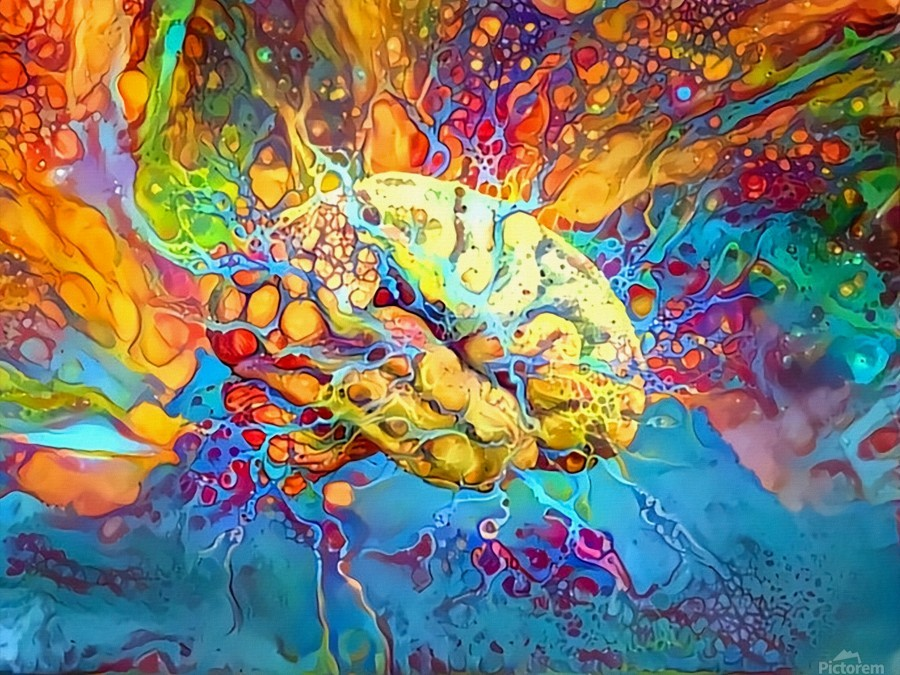
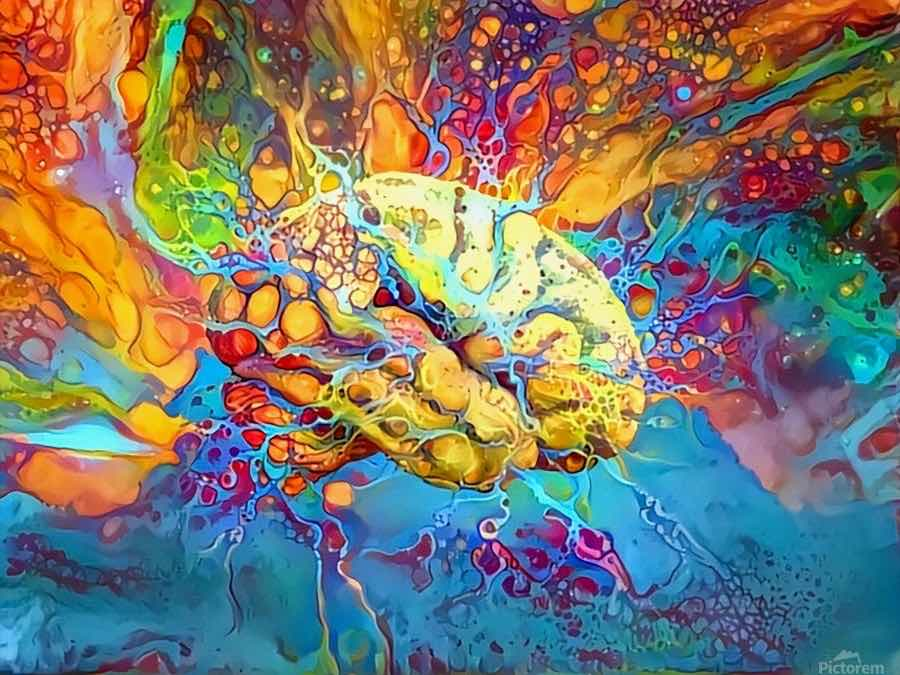
scroll event

diff --git a/index.html b/index.html
@@ -6,22 +6,15 @@
     <meta name="author" content="Ahmad el Dorra">
     <meta name="description" content="Ahmad el Dorra's Portfolio Website">
     <title>Ahmad Dorra</title>
-    
-    
     <link rel="apple-touch-icon" sizes="180x180" href="apple-touch-icon.png">
     <link rel="icon" type="image/png" sizes="32x32" href="favicon-32x32.png">
     <link rel="icon" type="image/png" sizes="16x16" href="favicon-16x16.png">
     <link rel="manifest" href="site.webmanifest">
-<!--    <link rel="mask-icon" href="safari-pinned-tab.svg" color="#f39b07">-->
     <meta name="msapplication-TileColor" content="#da532c">
     <meta name="theme-color" content="#ffffff">
-         
     <link href="https://cdn.jsdelivr.net/npm/bootstrap@5.0.0-beta1/dist/css/bootstrap.min.css" rel="stylesheet" integrity="sha384-giJF6kkoqNQ00vy+HMDP7azOuL0xtbfIcaT9wjKHr8RbDVddVHyTfAAsrekwKmP1" crossorigin="anonymous">
     <style>
       html,body{overflow-x:hidden!important;}
-      body{
-          background: white !important;
-      }
       .loading{
         top:0;left:0;
         background:#fff;
@@ -35,7 +28,7 @@
       }
       .loading .dot::before{position:absolute;content:"";width:100%;height:100%;background:inherit;border-radius:inherit;animation:wave 2s ease-out infinite}
       @keyframes wave{50%,75%{transform:scale(2.5)}80%,100%{opacity:0}}
-      #hello-world-section{background:url(images/pexel-min.png) no-repeat fixed center center;background-size:cover;margin-bottom:30px}
+      #hello-world-section{background:url(images/pexel-min.jpg) no-repeat fixed center center;background-size:cover;margin-bottom:30px}
       #hello-world-section .svg-container{border:10px solid transparent;}
       #hello-world-section svg{width:100%;height:100%;overflow-y:visible;overflow-x:hidden}
       #hello-world-section svg mask rect{fill:#fff!important}
@@ -51,7 +44,7 @@
           font-family:Phosphate,Beirut,Farisi,Chalkduster;
       }
       .scroll-content{display:flex;flex-direction:row;width:200%!important;overflow-x:hidden}
-      .first{background:url(images/welcome-min.png) no-repeat center;background-size:contain;width:100%}
+      .first{background:url(images/welcome-min.jpg) no-repeat center;background-size:contain;width:100%}
       .laravel{display:block;margin-left:auto;margin-right:auto;width:50%}
       #introduction{width:100%;margin:0 auto}
       .manifesto-headline{
@@ -67,7 +60,7 @@
       .typography-hero-subhead{padding:0 15%;text-align:start;font-size:42px;line-height:1.08349;font-weight:400;letter-spacing:-.003em;font-family:"Helvetica","Arial",sans-serif}
       h1+*,h2+*,h3+*,h4+*,h5+*,h6+*{margin-top:.8em}
       .parallax{
-        background-image:url(images/a2-min.png),url(images/pexel-min.png);
+        background-image:url(images/a2-min.jpg),url(images/pexel-min.jpg);
         height:450px;
         background-attachment:fixed,scroll;
         background-position:center,40%;
@@ -78,7 +71,7 @@
       #beirut{width:1440px;height:1440px}
       .motivation-section{padding:0 10px}
       .motivation-div{top:70px;left:51%;position:absolute;transform:translate(-50%,0%)}
-      .motivation-ques{top:60px;background:url(images/bg-min.png);-webkit-background-clip:text;color:transparent;font-family:"Helvetica","Arial",sans-serif;font-size:80px;font-weight:900;animation:dynamic 7s infinite alternate linear;white-space:nowrap}
+      .motivation-ques{top:60px;background:url(images/bg-min.jpg);-webkit-background-clip:text;color:transparent;font-family:"Helvetica","Arial",sans-serif;font-size:80px;font-weight:900;animation:dynamic 7s infinite alternate linear;white-space:nowrap}
       .motivation-text{margin-top:135px;text-align:justify;font-size:25px;font-weight:500;letter-spacing:.011em;font-family:"Helvetica","Helvetica","Arial",sans-serif}
       @media only screen and (max-width:1366px){
         .motivation-div{top:64px}
@@ -265,16 +258,7 @@
         width: 100%;
         height: 100%;
       }
-      /*.wrap-effect-1 .item:first-of-type{background-image:url(images/swiper/1-min.png)}
-      .wrap-effect-1 .item:nth-of-type(2){background-image:url(images/swiper/2-min.png)}
-      .wrap-effect-1 .item:nth-of-type(3){background-image:url(images/swiper/3-min.png)}
-      .wrap-effect-1 .item:last-of-type{background-image:url(images/swiper/4-min.png)}
-      .wrap-effect-2 .item:first-of-type{background-image:url(images/swiper/5-min.png)}
-      .wrap-effect-2 .item:nth-of-type(2){background-image:url(images/swiper/6-min.png)}
-      .wrap-effect-2 .item:last-of-type{background-image:url(images/swiper/7-min.png)}
-      .wrap-effect-3 .item:first-of-type{background-image:url(images/swiper/8-min.png)}
-      .wrap-effect-3 .item:nth-of-type(2){background-image:url(images/swiper/9-min.png)}
-      .wrap-effect-3 .item:last-of-type{background-image:url(images/swiper/10-min.png)}*/
+      
     @media (max-width: 700px){
         .skills-section{max-height: 300px}
 
@@ -325,7 +309,7 @@
       @keyframes blinking{0%{fill:#800}25%{fill:#800}50%{fill:#fff}75%{fill:#800}100%{fill:#800}}
       
       @supports (-webkit-touch-callout: none) {
-          #hello-world-section{background:url(images/pexel-min.png) no-repeat scroll center center;background-size: cover;}
+          #hello-world-section{background:url(images/pexel-min.jpg) no-repeat scroll center center;background-size: cover;}
           .parallax{
             
             background-attachment: scroll,scroll;
@@ -410,7 +394,7 @@
               </p>
             </div>
             <div class="col-md-6 col-12">
-              <img width="329" height="318" loading="lazy" src="images/computer-min.png" alt=""/>
+              <img width="329" height="318" loading="lazy" src="images/computer-min.jpg" alt=""/>
             </div>
             <div class="col-12 d-block d-md-none">
               <h3>Web Apps</h3>
@@ -421,7 +405,7 @@
             
               
             <div class="col-md-6 col-12">
-              <img width="427" height="502" loading="lazy" src="images/mobile-min.png" alt=""/>
+              <img width="427" height="502" loading="lazy" src="images/mobile-min.jpg" alt=""/>
             </div>
             <div class="col-md-6 col-12 mt-lg-4 mt-md-2">
               <h3>iOS App Development</h3>
@@ -434,7 +418,7 @@
               </p>
             </div>
             <div class="col-md-6 col-12">
-              <img width="554" height="339" loading="lazy" src="images/data-min.png" alt=""/>
+              <img width="554" height="339" loading="lazy" src="images/data-min.jpg" alt=""/>
             </div>
             <div class="col-12 d-block d-md-none ">
               <h3>Data</h3>
@@ -454,14 +438,14 @@
             <div class="description">
               <p>It Covers SwiftUI essentials, drawing, animations, and design. (From Apple) </p>
             </div>
-            <div><img width="270" height="155" loading="lazy" src="images/projects/landmarks-min.png" alt=""/></div>
+            <div><img width="270" height="155" loading="lazy" src="images/projects/landmarks-min.jpg" alt=""/></div>
           </div>
           <div class="project">
             <h3 class="title">Scrumdinger</h3>
             <div class="description">
               <p>An app that keeps track of daily scrums. Covers everything from views to state management. (From Apple)</p>
             </div>
-            <div><img width="270" height="155" loading="lazy" src="images/projects/scrum-min.png" alt=""/></div>
+            <div><img width="270" height="155" loading="lazy" src="images/projects/scrum-min.jpg" alt=""/></div>
           </div>
           <div class="project">
             <h3 class="title">Bulleseye App</h3>
@@ -516,7 +500,7 @@
               <a target="_blank" href="https://coursera.org/share/5fcc2c1e34bbd25ef764336b5ad8fda3" rel="noopener">Python for Everybody (5 courses)</a>
             </h3>
             <a target="_blank" href="https://coursera.org/share/5fcc2c1e34bbd25ef764336b5ad8fda3" rel="noopener">
-              <img width="202" height="155" loading="lazy" src="images/certificates/pyfore-min.png" alt="Python for Everybody Certificate" /></a>
+              <img width="202" height="155" loading="lazy" src="images/certificates/pyfore-min.jpg" alt="Python for Everybody Certificate" /></a>
             </div>
             <div class="certificate">
               <time datetime="2020-12-03" title="Completed Dec 3, 2020">
@@ -526,7 +510,7 @@
                 <a target="_blank" href="https://coursera.org/share/33931eb2fab0781652ae852bfe2ff1b4" rel="noopener">Python 3 Programming (5 courses)</a>
               </h3>
               <a target="_blank" href="https://coursera.org/share/33931eb2fab0781652ae852bfe2ff1b4" rel="noopener">
-                <img width="202" height="155" loading="lazy" src="images/certificates/py3-min.png" alt="Python 3 Programming Certificate" />
+                <img width="202" height="155" loading="lazy" src="images/certificates/py3-min.jpg" alt="Python 3 Programming Certificate" />
               </a>
             </div>
             <div class="certificate">
@@ -537,7 +521,7 @@
                 <a target="_blank" href="https://coursera.org/share/6cecef086c376c00f36bf9629f69a50c" rel="noopener">AWS Fundamentals (4 courses)</a>
               </h3>
               <a target="_blank" href="https://coursera.org/share/6cecef086c376c00f36bf9629f69a50c" rel="noopener">
-                <img width="202" height="155" loading="lazy" src="images/certificates/aws-min.png" alt="Amazon Web Services Fundamentals Certificate" />
+                <img width="202" height="155" loading="lazy" src="images/certificates/aws-min.jpg" alt="Amazon Web Services Fundamentals Certificate" />
               </a>
             </div>
             <div class="certificate">
@@ -549,7 +533,7 @@
               </a>
               </h3>
               <a target="_blank" href="https://coursera.org/share/29bc72f99358058844c97164a17e148c" rel="noopener">
-                <img width="202" height="155" loading="lazy" src="images/certificates/go-min.png" alt="Programming with Google's Go language Certificate"/>
+                <img width="202" height="155" loading="lazy" src="images/certificates/go-min.jpg" alt="Programming with Google's Go language Certificate"/>
               </a>
             </div>
             <div class="certificate">
@@ -561,7 +545,7 @@
               </a>
               </h3>
               <a target="_blank" href="https://coursera.org/share/64d6a84b48778a6a61515a8ba88a8eae" rel="noopener">
-                <img width="202" height="155" loading="lazy" src="images/certificates/clang-min.png" alt="Introduction to Programming in C Certificate"/>
+                <img width="202" height="155" loading="lazy" src="images/certificates/clang-min.jpg" alt="Introduction to Programming in C Certificate"/>
               </a>
             </div>
             <div class="certificate d-flex d-lg-none">
@@ -574,7 +558,7 @@
                 </a>
               </h3>
               <a target="_blank" href="https://coursera.org/share/c6f86a2900ad2571777a7041f7f7209d" rel="noopener">
-                <img width="202" height="155" loading="lazy" src="images/certificates/stanford-min.png" alt="Algorithms Certificate"/>
+                <img width="202" height="155" loading="lazy" src="images/certificates/stanford-min.jpg" alt="Algorithms Certificate"/>
               </a>
             </div>
           </div>
@@ -591,28 +575,28 @@
               <div class="swiper-slide">
                 <div class="container-general">
                   <div class="gallery-wrap wrap-effect-1">
-                    <div class="item"><img width="311" height="211" loading="lazy" src="images/swiper/1-min.png" alt="php, javascript, Structured Query Language, and SQL lite"/></div>
-                    <div class="item"><img width="311" height="211" loading="lazy" src="images/swiper/2-min.png" alt="Swift, Kotlin, Java, and My SQL"/></div>
-                    <div class="item"><img width="311" height="211" loading="lazy" src="images/swiper/3-min.png" alt="Python, HTML 5, CSS 3, and Sass"/></div>
-                    <div class="item"><img width="311" height="211" loading="lazy" src="images/swiper/4-min.png" alt="Google Go Language, C, C++, and MongoDB"/></div>
+                    <div class="item"><img width="311" height="211" loading="lazy" src="images/swiper/1-min.jpg" alt="php, javascript, Structured Query Language, and SQL lite"/></div>
+                    <div class="item"><img width="311" height="211" loading="lazy" src="images/swiper/2-min.jpg" alt="Swift, Kotlin, Java, and My SQL"/></div>
+                    <div class="item"><img width="311" height="211" loading="lazy" src="images/swiper/3-min.jpg" alt="Python, HTML 5, CSS 3, and Sass"/></div>
+                    <div class="item"><img width="311" height="211" loading="lazy" src="images/swiper/4-min.jpg" alt="Google Go Language, C, C++, and MongoDB"/></div>
                   </div>
                 </div>
               </div>
               <div class="swiper-slide">
                 <div class="container-general">
                   <div class="gallery-wrap wrap-effect-2">
-                    <div class="item"><img width="311" height="211" loading="lazy" src="images/swiper/5-min.png" alt="Bootstrap 5, jQuery, Node and express "/></div>
-                    <div class="item"><img width="311" height="211" loading="lazy" src="images/swiper/6-min.png" alt="SwiftUI, Laravel, and React"/></div>
-                    <div class="item"><img width="311" height="211" loading="lazy" src="images/swiper/7-min.png" alt="Jupyter notebook, NumPy, and Pandas"/></div>
+                    <div class="item"><img width="311" height="211" loading="lazy" src="images/swiper/5-min.jpg" alt="Bootstrap 5, jQuery, Node and express "/></div>
+                    <div class="item"><img width="311" height="211" loading="lazy" src="images/swiper/6-min.jpg" alt="SwiftUI, Laravel, and React"/></div>
+                    <div class="item"><img width="311" height="211" loading="lazy" src="images/swiper/7-min.jpg" alt="Jupyter notebook, NumPy, and Pandas"/></div>
                   </div>
                 </div>
               </div>
               <div class="swiper-slide">
                 <div class="container-general">
                   <div class="gallery-wrap wrap-effect-3">
-                    <div class="item"><img width="311" height="211" loading="lazy" src="images/swiper/8-min.png" alt="php Storm, Atom, Xcode, and Developer"/></div>
-                    <div class="item"><img width="311" height="211" loading="lazy" src="images/swiper/9-min.png" alt="Mamp, Eclipse, Postman, and Android Studio"/></div>
-                    <div class="item"><img width="311" height="211" loading="lazy" src="images/swiper/10-min.png" alt="Terminal, Source Tree, Termius, and MongoDB Compass"/></div>
+                    <div class="item"><img width="311" height="211" loading="lazy" src="images/swiper/8-min.jpg" alt="php Storm, Atom, Xcode, and Developer"/></div>
+                    <div class="item"><img width="311" height="211" loading="lazy" src="images/swiper/9-min.jpg" alt="Mamp, Eclipse, Postman, and Android Studio"/></div>
+                    <div class="item"><img width="311" height="211" loading="lazy" src="images/swiper/10-min.jpg" alt="Terminal, Source Tree, Termius, and MongoDB Compass"/></div>
                   </div>
                 </div>
               </div>
